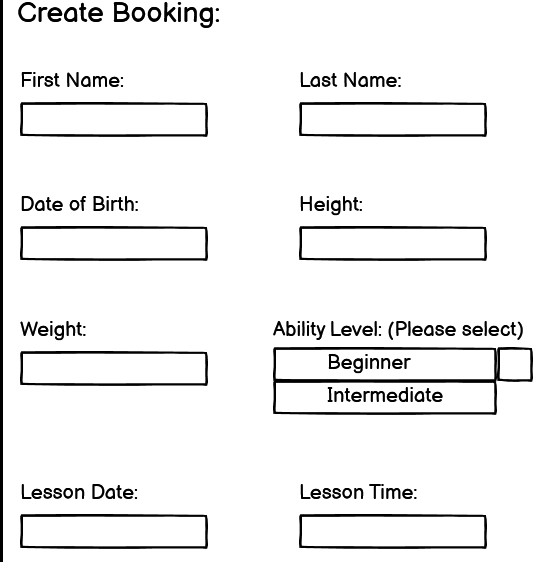
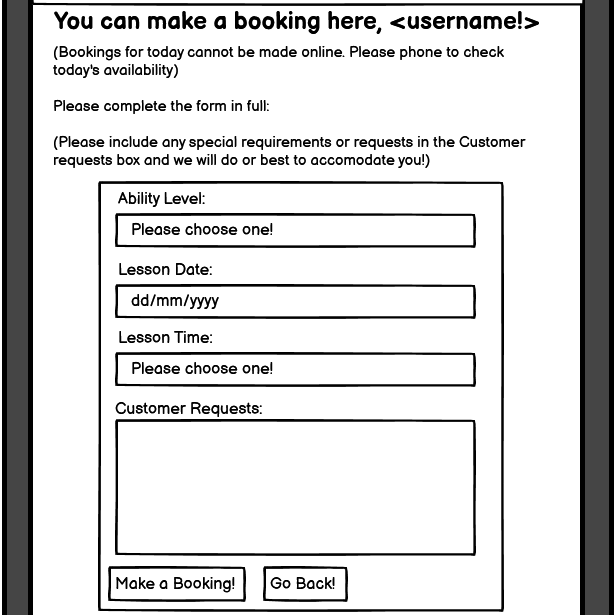
Update the features section of readme

Changed region(s): [[0.0, 0.0, 1.0, 1.0]]

diff --git a/README.md b/README.md
@@ -48,11 +48,17 @@ Please note that the features section contains relevant extracts from the projec
 
 ### 3.1 Navigation Bar
 
-* The navigation bar provides a link to return to the home page from any other page. This link will be highlighted to indicate when a user is on the homepage.
+* The navigation bar provides a Home link to return to the home page from any other page. This link will be highlighted to indicate when a user is on the homepage.
 
-* When no user is logged in the navigation bar provides links to sign-up or log-in.
+* The navigation bar contains the KSurf logo. The logo is also a link to the home page in line with likely user expectations.
 
-* When a user is logged in the link to log-out replaces the log-in or sign-up options.
+* When no user is logged in the navigation bar provides links to Sign Up or Log In.
+
+* When a user is logged in the links to My Account and Log Out replace the Sign Up or Log In options.
+
+* The Sign Up, Log In, My Account, and Log Out links are highlighted as active when the appropriate page is open.
+
+* An Admin Only link to the admin log in page is also provided for ease of access. This link will have a different colour to differentiate it from the main user links.
 
 <details><summary>Fig. 3.1.1 Navigation Bar with no user logged in.</summary>
 <img src="documents/navbar-logged-out.png"
@@ -68,11 +74,19 @@ alt="wireframe of the navigation bar when there is a user logged in"></details>
 
 * The header contains a hero image with a theme related to the purpose of the website.
 
+* The header displays the telephone number, email address, and business opening hours.
+
 <details><summary>Fig. 3.2.1 Header</summary>
 <img src="documents/header.png"
 alt="wireframe of the page header"></details>
 
-### 3.3 Home Page Main Section
+### 3.3 Footer
+
+* The footer contains links to social media - Facebook, Instagram, Twitter, YouTube.
+
+* The footer is sticky, always appearing at the bottom of the view.
+
+### 3.4 Home Page Main Section
 
 * The main section contains a link, in the form of a card, to commence the booking process. This is the key call to action on the home page. This link will bring the user to the page with options to log in or sign up.
 
@@ -82,57 +96,27 @@ alt="wireframe of the page header"></details>
 
 * On mobile devices the three items will be displayed beneath each other in an accordion format.
 
-<details><summary>Fig. 3.3.1 Home Page Main Section on Desktop</summary>
+<details><summary>Fig. 3.4.1 Home Page Main Section on Desktop</summary>
 <img src="documents/home-main-desktop.png"
 alt="wireframe of the home page main section on desktop"></details>
 
-<details><summary>Fig. 3.3.2 Home Page Main Section on Mobile</summary>
+<details><summary>Fig. 3.4.2 Home Page Main Section on Mobile</summary>
 <img src="documents/home-main-mobile.png"
 alt="wireframe of the home page main section on a mobile device"></details>
 
-### 3.4 Footer
-
-* The footer contains links to social media.
-
-* The footer is sticky, always appearing at the bottom of the view.
-
 ### 3.5 Sign Up/ Log In Page
 
-* This page is reached by clicking on the booking option on the home page.
+* This page is reached by clicking on the book group lessons now option on the home page.
 
-* The main section on this page contains links to the sign up or sign in options.
+* The main section on this page contains links to the sign up or log in options.
 
-* There is also a brief explainer regarding the need to create an account. This is in the form of a dropdown box on the mobile version.
+* There is also a brief explainer regarding the need to create an account.
 
 <details><summary>Fig. 3.5.1 Sign Up/ Log In</summary>
 <img src="documents/desktop-sign-up-sign-in-main.png"
 alt="wireframe of the main section of the sign up or log in page"></details>
 
-### 3.6 Sign Up Form
-
-* The page containing this form is reached either by clicking on sign up on the navigation bar or by clicking on the appropriate link on the sign up or log in options page.
-
-* The form contains a field to enter a unique username and fields to enter and confirm a user password.
-
-* The form has a submit button to process the entered information.
-
-<details><summary>Fig. 3.6.1 Sign Up Form</summary>
-<img src="documents/sign-up-form.png"
-alt="wireframe of the sign up form"></details>
-
-### 3.7 User Account First Log In/Customer Profile Form
-
-* This page will appear after a user creates an account.
-
-* This page will contain a form for the provision of an email address and telephone number for the management of bookings.
-
-* A short explainer is provided regarding the data collected.
-
-<details><summary>Fig. 3.7.1 Email and Phone Number Form</summary>
-<img src="documents/email-phone-form.png"
-alt="wireframe of the email and telephone number form"></details>
-
-### 3.8 Log In Form
+### 3.6 Log In Form
 
 * The page containing this form is reached either by clicking on log in on the navigation bar or by clicking on the appropriate link on the sign up or log in options page.
 
@@ -140,9 +124,33 @@ alt="wireframe of the email and telephone number form"></details>
 
 * The form has a submit button to process the entered information.
 
-<details><summary>Fig. 3.8.1 Log In Form</summary>
+<details><summary>Fig. 3.6.1 Log In Form</summary>
 <img src="documents/log-in-form.png"
 alt="wireframe of the log in form"></details>
+
+### 3.7 Sign Up Form
+
+* The page containing this form is reached either by clicking on sign up on the navigation bar or by clicking on the appropriate link on the sign up or log in options page.
+
+* The form contains a field to enter a unique username and fields to enter and confirm a user password.
+
+* The form has a submit button to process the entered information.
+
+<details><summary>Fig. 3.7.1 Sign Up Form</summary>
+<img src="documents/sign-up-form.png"
+alt="wireframe of the sign up form"></details>
+
+### 3.8 User Account First Log In/Create Customer Profile Form
+
+* This page appears after a user creates an account. **NB:** As the information gathered in this form is critical to the processing of bookings and is therefore a required form, access to the my account page, the make a booking page, and the view bookings page is controlled by way of a custom python code decorator applied to the view functions for these pages. A customer attempting to view their account page, make a booking or view their current bookings is redirected to the customer profile form if a customer profile does not exist.
+
+* This page contains a form for the provision of first name, last name, email address, telephone number, date of birth, height, and weight.
+
+* A short explainer is provided regarding the data collected.
+
+<details><summary>Fig. 3.8.1 Create Customer Profile Form</summary>
+<img src="documents/create-customer-profile-form.png"
+alt="wireframe of the create customer profile form"></details>
 
 ### 3.9 Customer Account Page Main Section
 
@@ -150,23 +158,69 @@ alt="wireframe of the log in form"></details>
 
 * The main section of this page contains a summary of customer information.
 
-* The main section of this page contains links to create, view, edit and cancel bookings.
+* The main section of this page contains links to make a booking, view bookings, edit profile, and delete account.
 
 <details><summary>Fig. 3.9.1 Customer Account Page Main Section</summary>
 <img src="documents/user-account-main.png"
 alt="wireframe of the main section of the customer account page"></details>
 
-### 3.10 Create Booking Form
+### 3.10 Make a Booking Form
 
 * This form is reached by clicking the appropriate link on the customer account page.
 
-* This form gathers the necessary data for each individual's booking including first name, last name, date of birth, height, weight, ability level, booking date and booking time.
+* This form gathers the necessary data for an individual booking including ability level, lesson date, lesson time, and customer requests.
 
 * A submit button allows creation of the booking and its storage onto the database.
 
-<details><summary>Fig. 3.10.1 Create Booking Form</summary>
+<details><summary>Fig. 3.10.1 Make a Booking Form</summary>
 <img src="documents/create-booking-form.png"
-alt="wireframe of the create booking form"></details>
+alt="wireframe of the make a booking form"></details>
+
+### 3.11 View Bookings Page
+
+* This page is reached by clicking the appropriate link on the customer account page.
+
+* This page provides a summary of all of a customer's bookings.
+
+* Options to edit or cancel are provided for each booking.
+
+<details><summary>Fig. 3.11.1 View Bookings Page</summary>
+<img src="documents/view-bookings-section.png"
+alt="wireframe of the view bookings section"></details>
+
+### 3.12 Edit a Booking Form
+
+* This form is reached by clicking the appropriate link in the specific booking on the view bookings page.
+
+* This form contains the same fields and format as the make a booking form.
+
+* When the link is clicked and the form is opened for a specific booking, the form is pre-populated with the current details of that booking.
+
+### 3.13 Edit Customer Profile Form
+
+* This form is reached by clicking the appropriate link on the customer account page.
+
+* This form contains the same fields and format as the create customer profile form.
+
+* When the link is clicked and the form is opened, the form is pre-populated with the current customer profile data.
+
+### 3.14 Admin Log In Page - Customization
+
+* This page contains one customized link, a Back to Home link to take users back to the home page if they click on the Admin Only link.
+
+* Otherwise, this is a standard Django Admin-provided page template providing a log in form that only allows log in with an admin password.
+
+### 3.15 Admin Bookings List Display - Customization
+
+* In general the features provided on the admin side are the default Django-provided features. However, the Bookings list display from the Booking model is customized.
+
+* An approval process is added whereby bookings default to not approved until the admin approves them. This is to allow the admin to control booking volumes and intervene if a problem arises. The system is coded to automatically prevent an individual from double-booking themselves. However, because these are group lessons multiple bookings at the same time by different individuals are allowed. Consideration was given to coding in an upper limit on bookings for any given lesson but doing this would lead to other issues arising. Firstly, from a customer viewpoint, if a booking is refused due to business volumes the system should suggest alternatives. Failure to provide alternatives is considered a poor UX. However this level of sophistication does not form part of the MVP but could be considered as a future feature. Secondly, the business already expects and caters to different business volumes throughout the weeks and seasons. Therefore setting a single upper limit is not a viable solution. Again a more sophisticated solution allowing the admin to set limits for specific time periods or lessons could be considered as a future feature. The downside of the current solution is that in the event of too many bookings the business will have to contact individuals and manually adjust bookings. However, given that this is a small but established business that already has a reasonably good idea of expected volumes and typically can cater for this, it does not anticipate significant issues for now. If business volumes grow, the future features described above can be added.
+
+* The booking display list includes the customer first name and the name is also a link to the customers details in the related customer model. When the business is using the booking list in a practical use scenario such as preparing equipment for a particular lesson, easy access to the customer profile is very useful rather than having to search the user for each booking in the seperate customer model.
+
+* The ability to filter the booking list by date and approval status is added. In particular, the date filters are customized to provide a more useful set of filters for management of bookings, than the default Django date filters. For example Django includes defaults of "last 7 days" and "this year" whereas "next 7 days" and "remainder of this year" are considered more useful in this scenario.
+
+* The list includes the customer's age calculated from the customer profile date of birth database entry.
 
 ## 4. Future Features
 
@@ -657,6 +711,10 @@ This feature has certain requirements tested as follows:
 
 Feature/Operation|Expect|Action|Result
 ---|---|---|---
+Required Form|Clicking the My Account link to bypass this form will not proceed to my account page|Clicked My Account link|The site remains on the create customer profile page
+Required Form|Clicking the Home link and then the My Account link to bypass this form will not proceed to my account page|Clicked Home followed by the My Account link|The home page opens but when the My Account link is clicked the user is redirected to the create customer profile page
+Required Form|Manually entering the make a booking URL to bypass this form will not proceed to the make a booking page|Entered the make a booking page URL|The site remains on the create customer profile page
+Required Form|Manually entering the view bookings URL to bypass this form will not proceed to the view bookings page|Entered the view bookings page URL|The site remains on the create customer profile page
 Required First Name field|Submitting the form without a First Name returns error|Clicked Submit Details with First Name field blank|Required field message appears
 Required Last Name field|Submitting the form without a Last Name returns error|Clicked Submit Details with Last Name field blank|Required field message appears
 Required Email field|Submitting the form without an Email returns error|Clicked Submit Details with Email field blank|Required field message appears
